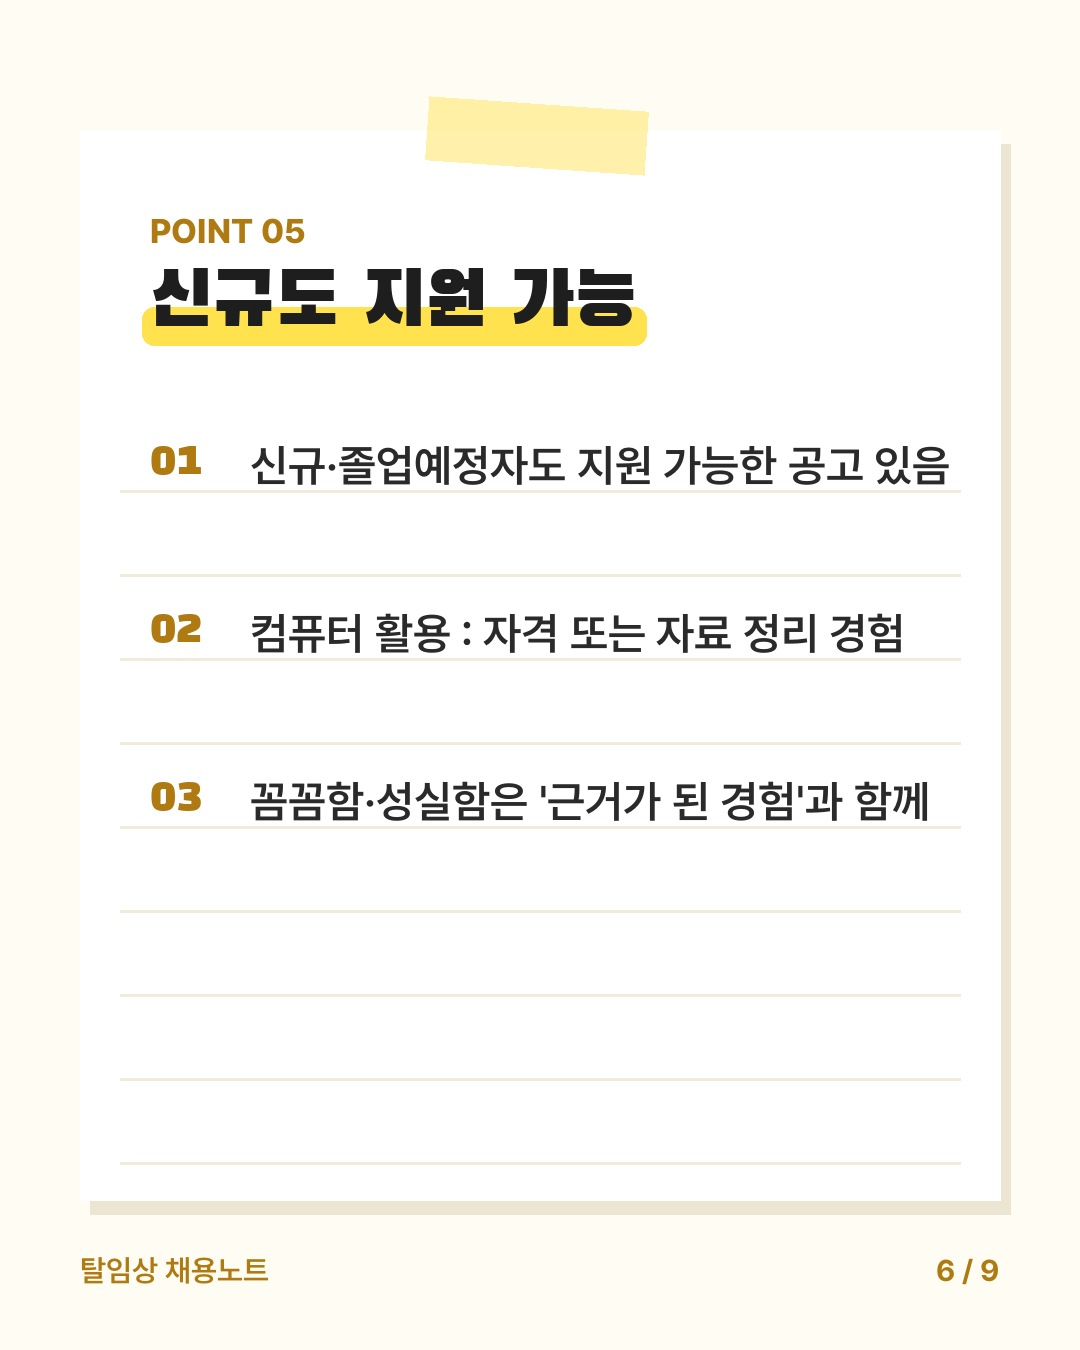
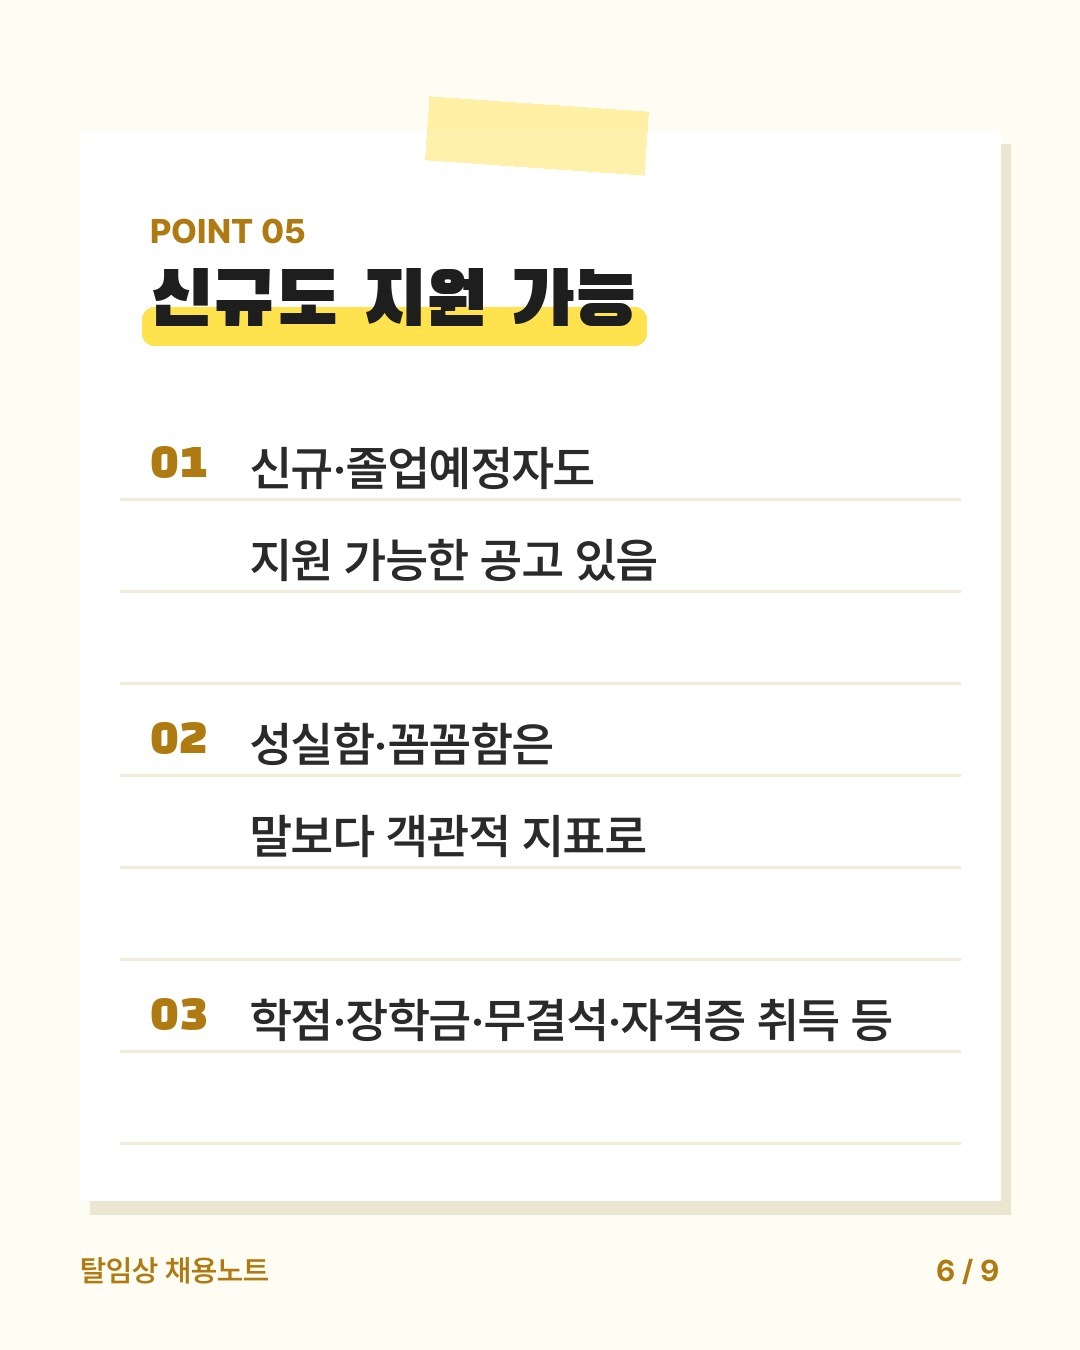
11/28 신규 섹션을 객관적 지표 중심으로, 자소서 주제·메모 정정, 예고 규칙 정정
Claude-Session: https://claude.ai/code/session_015ozFBz2a65sTR44YVUdsEW

diff --git a/docs/guides/2026-11-28/index.html b/docs/guides/2026-11-28/index.html
@@ -55,11 +55,11 @@ a{color:var(--accent)}ul.days{padding-left:1.2em}
 <hr>
 <blockquote style="text-align:center"><p style="text-align:center"><b>신규·졸업예정자도 CRC에 지원할 수 있을까?</b></p></blockquote>
 <p style="text-align:center"><img src="https://a55796196-sudo.github.io/nurse_jobs/guides/2026-11-28/card-05.jpg" width="540" alt="카드 5"></p>
-<p style="text-align:center">네, 지원할 수 있습니다.<br>최근 국제성모병원 공동CRC 공고처럼<br>&#x27;신규 지원 가능&#x27;을 명시한 곳도 있습니다.<br><br>경력이 없다면<br>CRC 업무에 필요한 역량을 보여 주는 것이 핵심입니다.</p>
+<p style="text-align:center">네, 지원할 수 있습니다.<br>최근 국제성모병원 공동CRC 공고처럼<br>&#x27;신규 지원 가능&#x27;을 명시한 곳도 있습니다.<br><br>경력이 없다면 꼼꼼함, 성실함, 컴퓨터 활용처럼<br>CRC에 필요한 역량을 어필해야 합니다.<br>다만 이런 장점은 말만으로는 증명하기 어려워서<br>숫자나 결과로 보이는 객관적 지표를 함께 제시하는 것이 좋습니다.</p>
 <p style="text-align:center">&nbsp;</p>
-<p style="text-align:center">✔ 컴퓨터 활용 : 컴퓨터 활용 자격, 실습·과제에서 엑셀·문서로 자료를 정리한 경험<br>✔ 꼼꼼함 : 실습 기록이나 과제를 정해진 형식과 기한에 맞춰 빠짐없이 마무리한 경험<br>✔ 성실함 : 오랫동안 꾸준히 이어 온 활동이나 아르바이트, 실습 근태</p>
+<p style="text-align:center">✔ 성실함 : 학점·석차, 장학금, 실습 무결석, 한 곳에서 오래 이어 간 아르바이트 기간<br>✔ 꼼꼼함 : 성적이나 수상처럼 결과로 확인되는 기록<br>✔ 컴퓨터 활용 : 컴퓨터 활용 자격 취득</p>
 <p style="text-align:center">&nbsp;</p>
-<p style="text-align:center">(💡 &#x27;꼼꼼합니다&#x27;, &#x27;성실합니다&#x27;라는 말만으로는 부족합니다. 그렇게 말할 수 있는 근거가 된 경험을 함께 적어야 설득력이 생깁니다)</p>
+<p style="text-align:center">(💡 &#x27;성실합니다&#x27;만 쓰면 누구나 할 수 있는 말이 됩니다. 이 부분은 나중에 자소서 글에서 자세히 다루겠습니다)</p>
 <p style="text-align:center">&nbsp;</p>
 <hr>
 <blockquote style="text-align:center"><p style="text-align:center"><b>임상 경력은 이렇게 연결하세요</b></p></blockquote>

diff --git a/CLAUDE.md b/CLAUDE.md
@@ -157,9 +157,9 @@
    - `intro`: 도입 2~3문장. `sections` 3~7개: `emoji`, `heading`, `paragraphs`, `bullets`, `tip`(선택), `card_title`(카드 제목 16자 이내), `card`(카드 문장 1~4개, 각 42자 이내)
    - `intro`·`paragraphs`·`comment`는 **한 줄에 한 문장씩 `\n`으로 끊고 문단 사이는 `\n\n`** (블로그에서 가운데 정렬로 나감)
    - `series`·`series_no`: 시리즈물이면 (예: "CRC 시리즈", 2) — 표지에 "CRC 시리즈 02"로 나감. 아니면 생략(카테고리가 나감)
-   - 다음 편·다음 글 예고는 쓰지 않는다 (`next_title`도 쓰지 않음, 계획이 바뀔 수 있음). `comment`에서 이미 올라간 글을 언급하는 것은 괜찮다.
+   - **구체적인 다음 글 예고는 쓰지 않는다** (예: "다음은 ○○ 주제로 돌아오겠습니다", `next_title` 금지 — 계획이 바뀔 수 있음). "이 부분은 나중에 자세히 다루겠습니다"처럼 **주제·날짜를 못 박지 않는 언급은 괜찮다**. 이미 올라간 글을 언급하는 것도 괜찮다.
    - `closing`(마지막 카드)과 `card` 문장은 읽기 좋게: 필요하면 `\n`으로 의미 단위 줄바꿈을 직접 넣는다 (코드도 '가고 / 싶은' 같은 어색한 끊김은 피함).
-   - 글 끝에는 "이 밖에 더 궁금한 점이나 다뤄줬으면 하는 주제가 있다면 댓글로 남겨주세요" 문구가 자동으로 들어간다 (다음 주 예고 문장은 쓰지 않음)
+   - 글 끝에는 "이 밖에 더 궁금한 점이나 다뤄줬으면 하는 주제가 있다면 댓글로 남겨주세요" 문구가 자동으로 들어간다
    - `comment`: 마무리 (2~4줄). `closing`: 마지막 카드 문장. `links`: 공식 확인처 (확실한 주소만). `tags`: 4~6개. `caption_hook`: 인스타 첫 줄
    - **리서치**: 메모는 견해로만 쓰고, 직무·제도·자격·교육 같은 사실은 **WebSearch로 직접 찾아 확인·보강**한다 (메모가 없는 직무도 리서치로 쓴다. 기준은 STYLE.md '사실 확인').
    - **정확성**: 시험 일정·응시료·합격률·연봉 숫자·법 조항 번호처럼 바뀌거나 틀리기 쉬운 정보는 공식 출처로 확인되지 않으면 쓰지 말고 "공식 사이트에서 확인"으로 안내한다. 확인 안 되는 기관명·제도는 빼거나 일반적으로 표현한다.

diff --git a/data/guides/notes/자소서-객관적지표.md b/data/guides/notes/자소서-객관적지표.md
@@ -1,0 +1,6 @@
+# 요점 메모: 증명하기 어려운 장점을 객관적 지표로 어필하기 (사용자 견해, 2026-11-26)
+
+- 성실함·꼼꼼함 같은 장점은 증명이 어렵지만 신규·무경력자는 어필해야 한다.
+- '집 청소를 열심히 한다' 같은 일상 사례는 근거가 안 된다.
+- 숫자나 결과로 확인되는 **객관적 지표**와 함께 말해야 한다. 예: 대학 내내 학과 수석(과탑) 유지 — 이런 사례는 드물겠지만 이런 식의 지표.
+- (글에서 확장할 예: 학점·석차, 장학금, 실습 무결석·출석률, 한 곳에서의 근속 기간, 자격증 취득, 수상, 봉사 시간 — 메모에 없는 경험담은 지어내지 않는다)

diff --git a/data/guides/topics.md b/data/guides/topics.md
@@ -48,7 +48,7 @@
 - [x] QI(의료질관리) 간호사는 어떤 일을 할까? (2027-02-06)
 
 ## 일요일 자소서·면접
-- [ ] 성실함·꼼꼼함, 근거로 어필하는 법 (신규·무경력 자소서, 경험을 근거로 바꾸기)
+- [ ] 증명하기 어려운 장점(성실함·꼼꼼함), 객관적 지표로 어필하는 법 (신규·무경력 자소서, 메모: notes/자소서-객관적지표.md)
 - [x] 자소서 AI로 써도 될까? 초안 잡고 다듬는 법 (2026-11-22)
 - [x] 임상 경력을 탈임상 자소서에 녹이는 법 (2026-11-29)
 - [x] 공공기관 NCS 직업기초능력, 간호사는 어떻게 준비할까 (2026-12-06)

diff --git a/data/guides/STYLE.md b/data/guides/STYLE.md
@@ -50,3 +50,6 @@
 
 ## 광고·제휴
 - 쿠팡 파트너스 등 제휴 링크·광고성 문구는 넣지 않는다 (독자 확보가 먼저, 사용자 결정 2026-11-26). 다시 정할 때까지 유지.
+
+## 예고
+- "다음은 ○○ 주제로 돌아오겠습니다"처럼 구체적인 다음 글 예고는 쓰지 않는다. "이 부분은 나중에 자세히 다루겠습니다"처럼 주제·날짜를 못 박지 않는 언급은 괜찮다.
